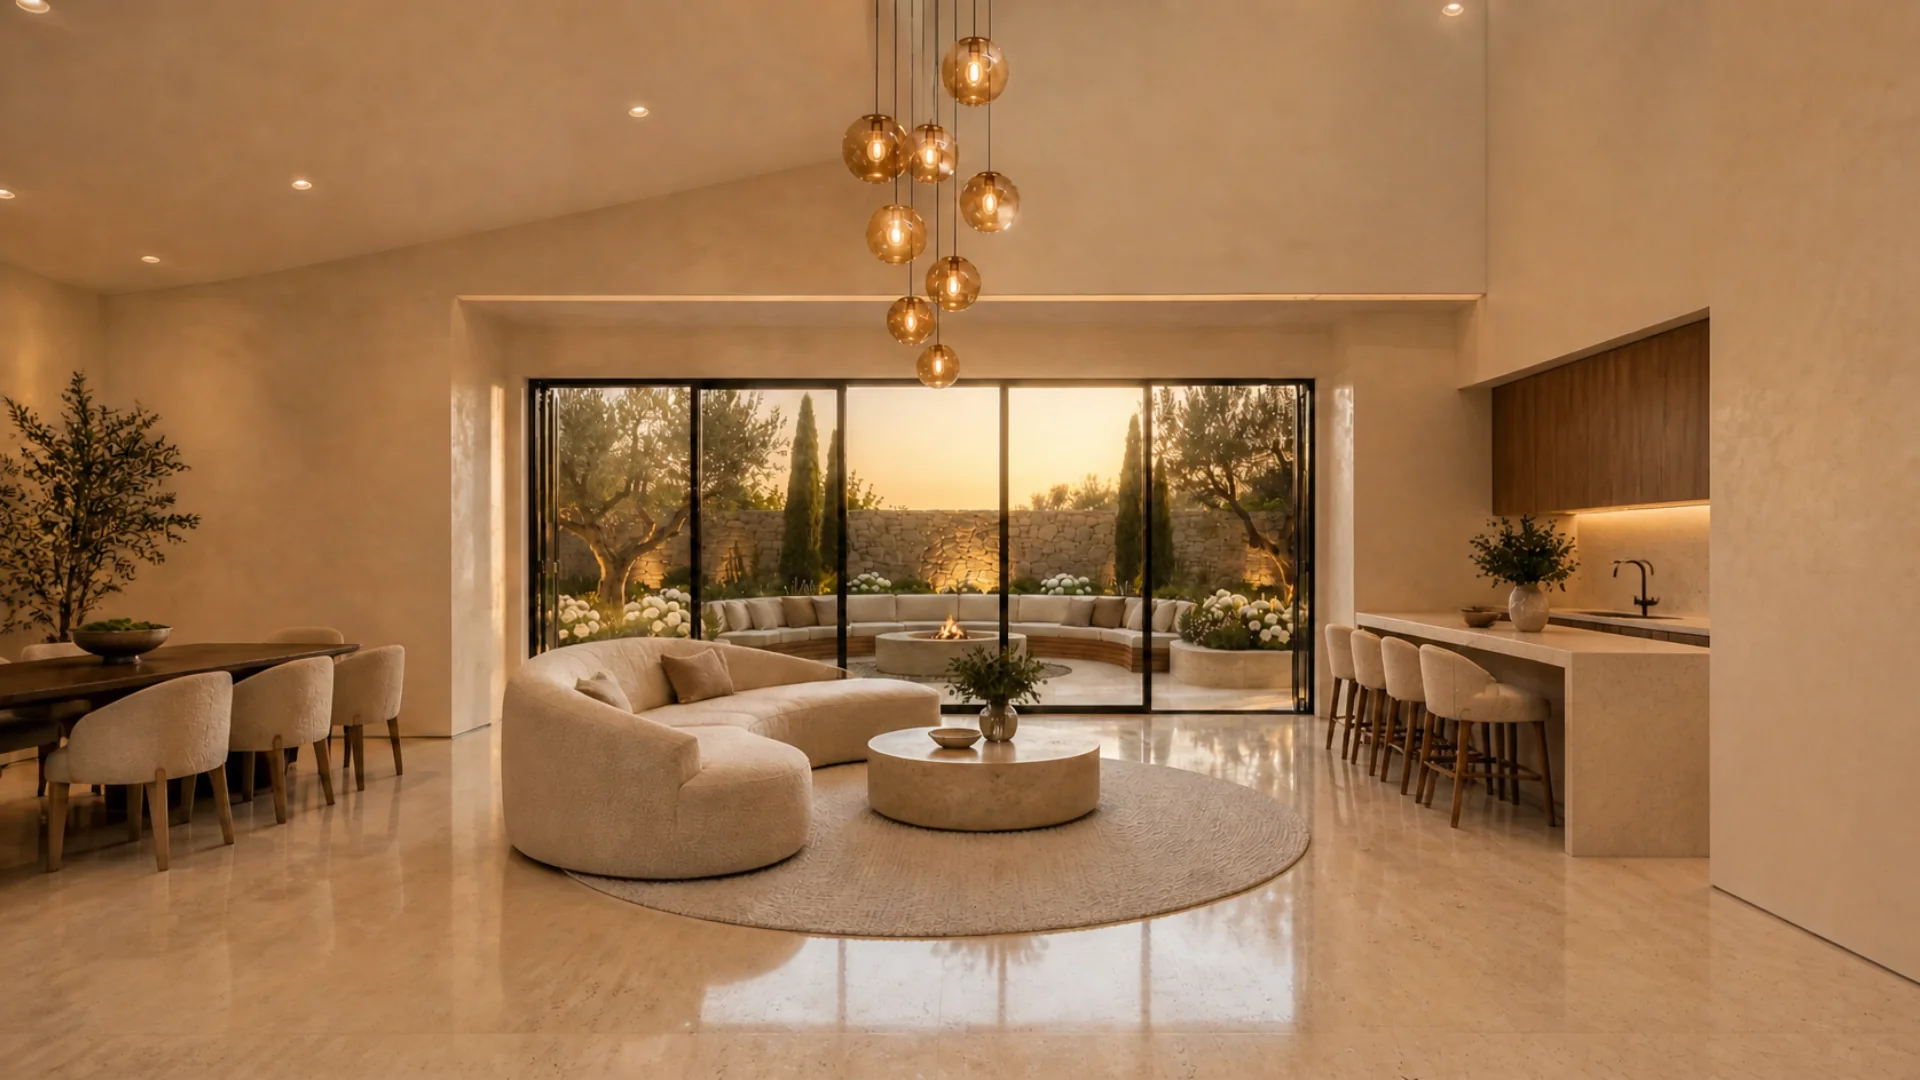
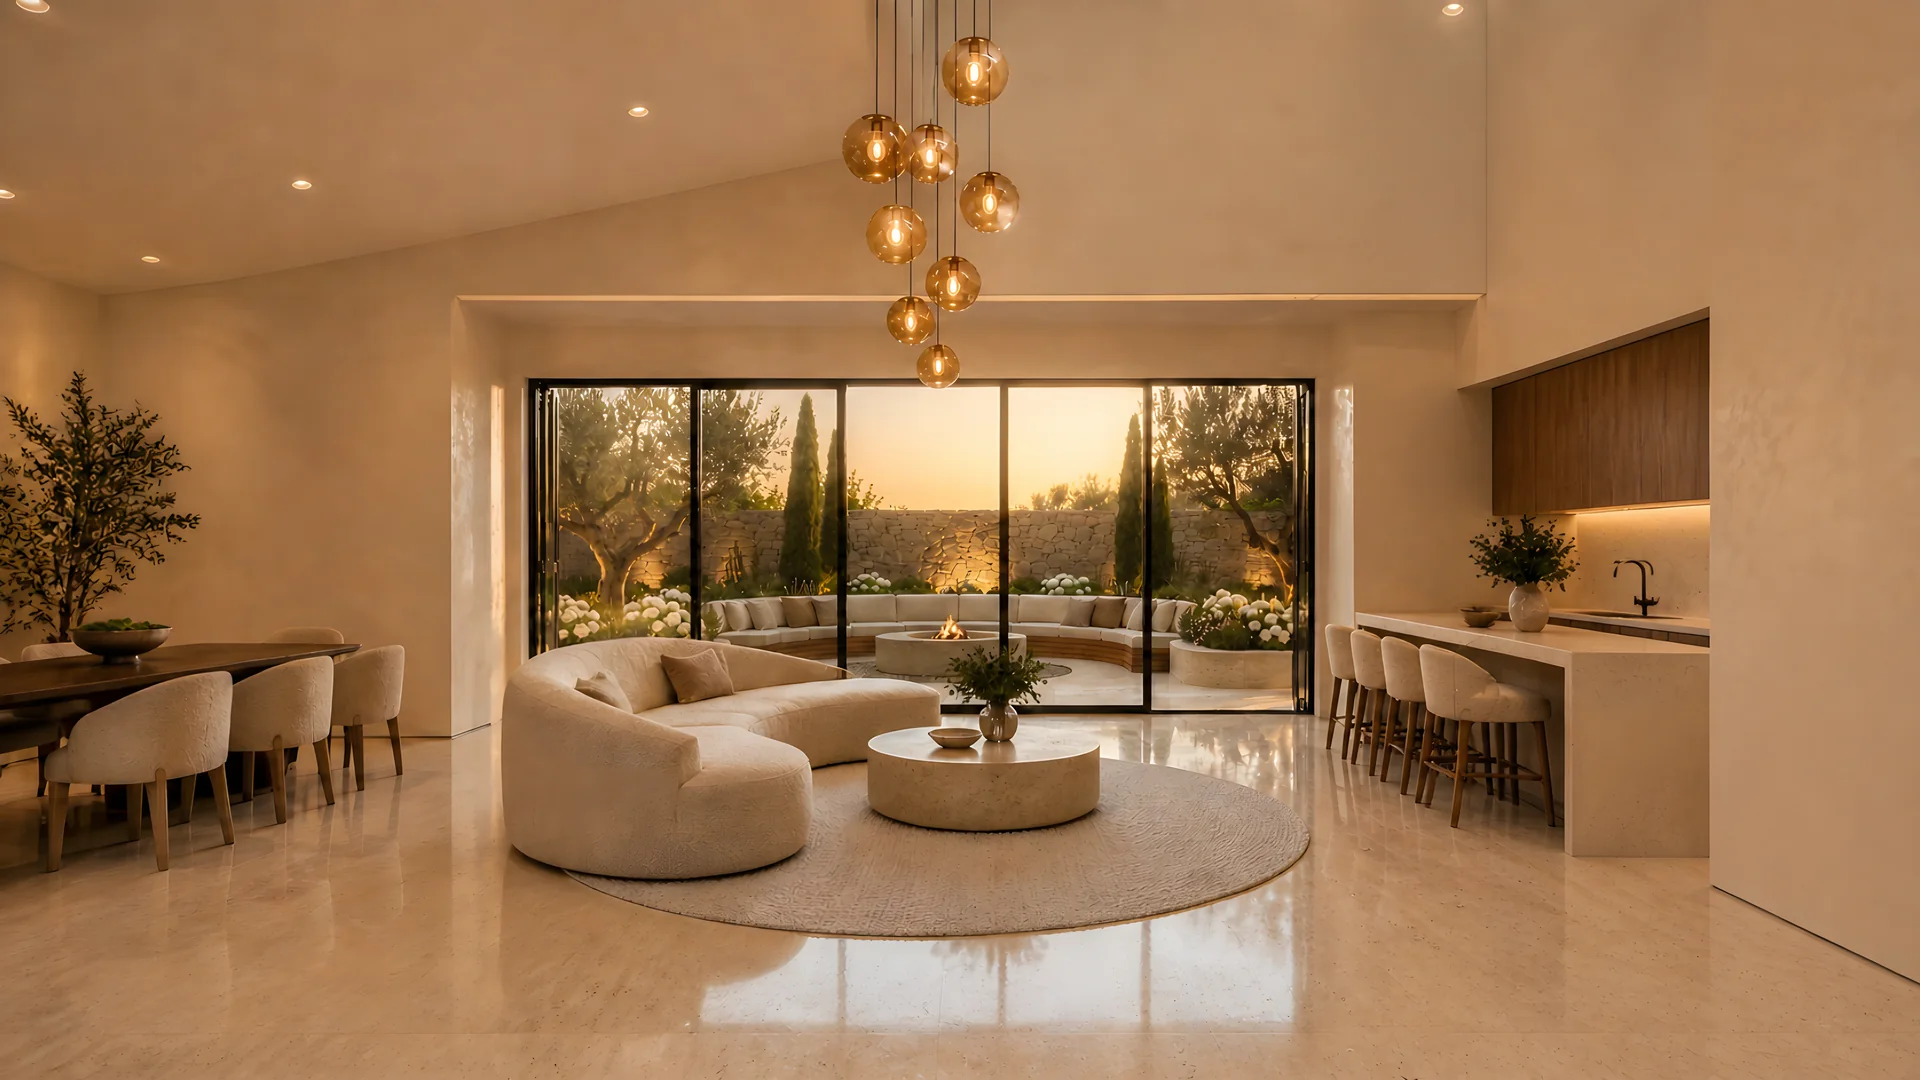
Sharper tour photos: all eight re-made from AI 4x upscales
Every tour photo now comes from a Real-ESRGAN 4x upscale: 3840 px versions
for large and retina screens and crisper 1920 px versions for everyone else.
Asset caching now revalidates so future updates show up straight away.

Claude-Session: https://claude.ai/code/session_015Wjx5fCLrkqoEWFbGrkWdH

diff --git a/assets/journey.js b/assets/journey.js
@@ -130,10 +130,12 @@ const TOUR = {
   // screens the 4K versions are fetched afterwards and decoded just ahead of the camera.
   const useShots = !useFrames && !useVideo && TOUR.shots.length > 0;
   if (useShots) canvas.hidden = false;
+  const V = "?v=2";                                           // bump when photos change under the same name
   let want2x = false, loLeft = TOUR.shots.length;
   const toBitmap = async src => {
-    const img = new Image(); img.decoding = "async"; img.src = src;
+    const img = new Image(); img.decoding = "async";
     if (src === TOUR.shots[0].src) img.fetchPriority = "high";
+    img.src = src + V;
     await img.decode();
     return window.createImageBitmap ? createImageBitmap(img) : img;
   };
@@ -151,7 +153,7 @@ const TOUR = {
   });
   function fetchHi(){
     if (!want2x || loLeft > 0) return;                        // the 1920 set always comes first
-    shots.forEach(s => { if (!s.hiBlob) fetch(s.src.replace(/\.webp$/, "@2x.webp")).then(r => r.ok ? r.blob() : null)
+    shots.forEach(s => { if (!s.hiBlob) fetch(s.src.replace(/\.webp$/, "@2x.webp") + V).then(r => r.ok ? r.blob() : null)
       .then(b => { s.hiBlob = b; sharpen(shown); }).catch(() => {}); });
   }
   // keep the 4K version decoded only for the rooms near the camera, to stay light on phones

diff --git a/index.html b/index.html
@@ -13,9 +13,9 @@
 <link rel="icon" href="/assets/brand/favicon-32.png" sizes="32x32" type="image/png">
 <link rel="apple-touch-icon" href="/assets/brand/apple-touch-icon.png">
 <link rel="manifest" href="/site.webmanifest">
-<link rel="stylesheet" href="/assets/styles.css?v=2">
-<link rel="stylesheet" href="/assets/journey.css?v=2">
-<link rel="preload" as="image" href="/assets/tour/01-front.webp" fetchpriority="high">
+<link rel="stylesheet" href="/assets/styles.css?v=3">
+<link rel="stylesheet" href="/assets/journey.css?v=3">
+<link rel="preload" as="image" href="/assets/tour/01-front.webp?v=2" fetchpriority="high">
 </head>
 <body class="journey-page">
 
@@ -181,7 +181,7 @@
     <span>The trademarks MLS®, Multiple Listing Service® and the associated logos are owned by The Canadian Real Estate Association (CREA).</span>
 </footer>
 
-<script src="/assets/site.js?v=2" defer></script>
-<script src="/assets/journey.js?v=2" defer></script>
+<script src="/assets/site.js?v=3" defer></script>
+<script src="/assets/journey.js?v=3" defer></script>
 </body>
 </html>

diff --git a/presentations/index.html b/presentations/index.html
@@ -11,7 +11,7 @@
 <link rel="icon" href="/favicon.svg" type="image/svg+xml">
 <link rel="icon" href="/assets/brand/favicon-32.png" sizes="32x32" type="image/png">
 <link rel="apple-touch-icon" href="/assets/brand/apple-touch-icon.png">
-<link rel="stylesheet" href="/assets/styles.css?v=2">
+<link rel="stylesheet" href="/assets/styles.css?v=3">
 <style>
 .pin{max-width:380px;margin:72px auto 0}
 .pin input{font:300 32px/1 var(--display);letter-spacing:.5em;text-align:center}
@@ -132,6 +132,6 @@ document.addEventListener("keydown", e => {
 let ok = false; try { ok = sessionStorage.getItem("gh_pres") === "1"; } catch(_){}
 show(ok ? "home" : "pinform");
 </script>
-<script src="/assets/site.js?v=2" defer></script>
+<script src="/assets/site.js?v=3" defer></script>
 </body>
 </html>

diff --git a/search/index.html b/search/index.html
@@ -11,7 +11,7 @@
 <link rel="icon" href="/favicon.svg" type="image/svg+xml">
 <link rel="icon" href="/assets/brand/favicon-32.png" sizes="32x32" type="image/png">
 <link rel="apple-touch-icon" href="/assets/brand/apple-touch-icon.png">
-<link rel="stylesheet" href="/assets/styles.css?v=2">
+<link rel="stylesheet" href="/assets/styles.css?v=3">
 <style>
 /* Gate */
 .gate{display:grid;grid-template-columns:minmax(0,1.2fr) minmax(0,1fr);gap:clamp(32px,6vw,96px);align-items:start;padding-block:clamp(48px,8vw,112px)}
@@ -233,6 +233,6 @@ function render(){
 const saved = getLead();
 if (saved) unlock(saved);
 </script>
-<script src="/assets/site.js?v=2" defer></script>
+<script src="/assets/site.js?v=3" defer></script>
 </body>
 </html>

diff --git a/thanks.html b/thanks.html
@@ -8,7 +8,7 @@
 <link rel="icon" href="/favicon.svg" type="image/svg+xml">
 <link rel="icon" href="/assets/brand/favicon-32.png" sizes="32x32" type="image/png">
 <link rel="apple-touch-icon" href="/assets/brand/apple-touch-icon.png">
-<link rel="stylesheet" href="/assets/styles.css?v=2">
+<link rel="stylesheet" href="/assets/styles.css?v=3">
 </head>
 <body>
 <div class="wrap">
@@ -19,6 +19,6 @@
     <p><a class="btn" href="/search/">Search homes</a></p>
   </section>
 </div>
-<script src="/assets/site.js?v=2" defer></script>
+<script src="/assets/site.js?v=3" defer></script>
 </body>
 </html>
